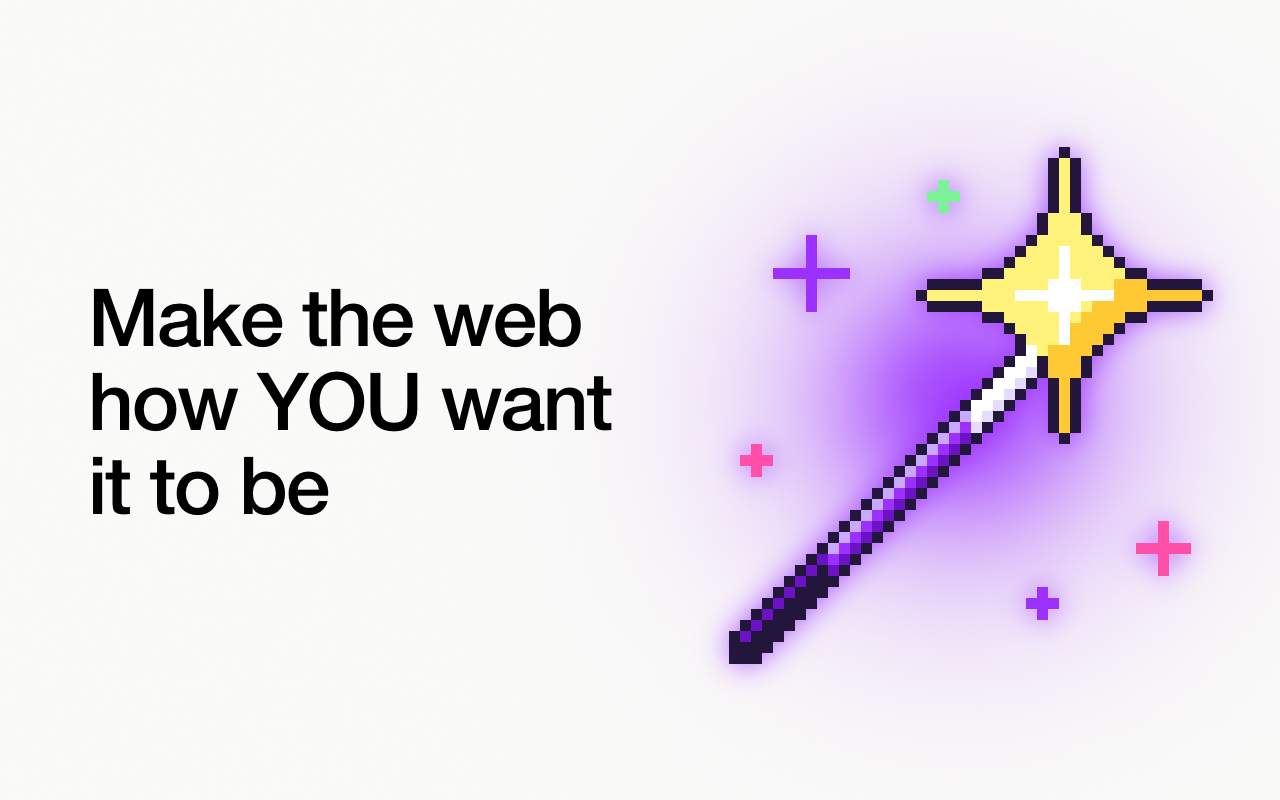
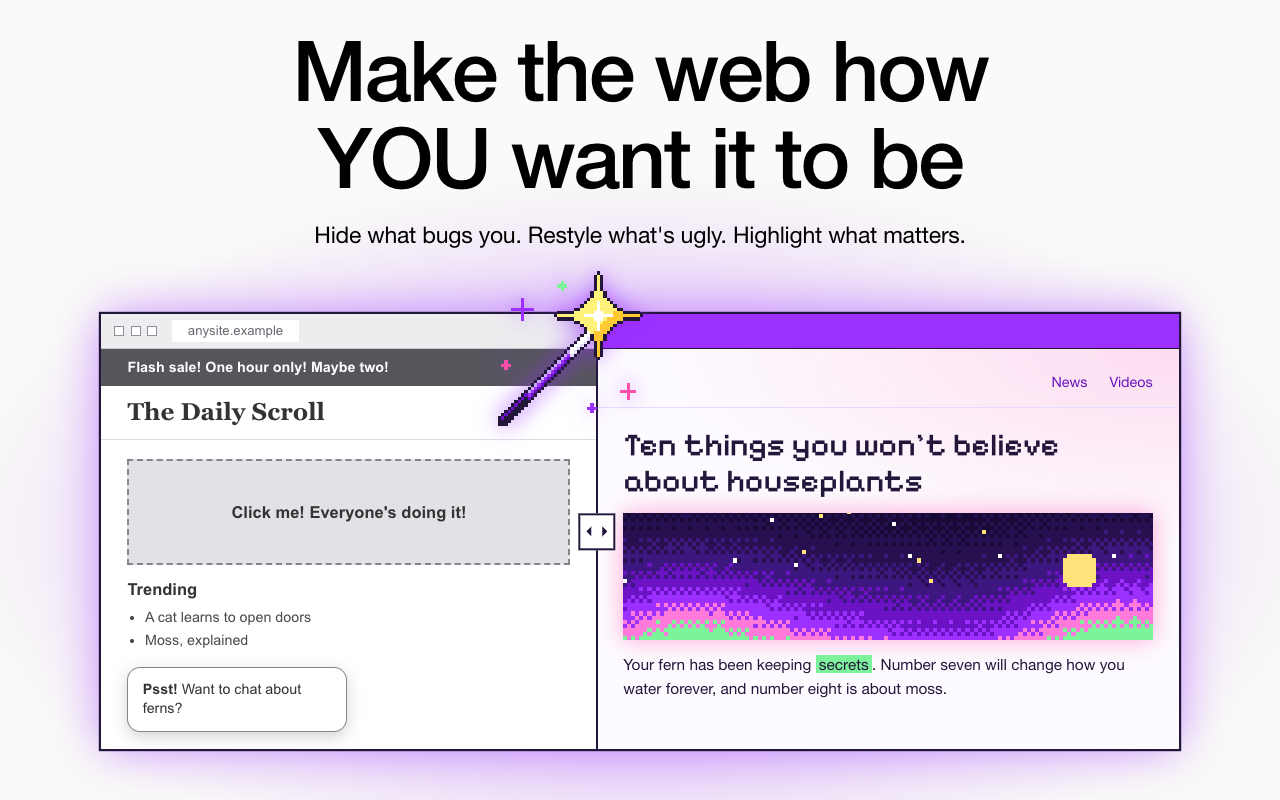
Store submission: new summary, hero promo art, short reviewer notes
The first screenshot and both promo tiles now render from the real welcome
page. The listing moves to listing.txt, with the summary as submitted and
reviewer notes cut to the store's 500 character limit.

diff --git a/store/art.html b/store/art.html
@@ -97,6 +97,27 @@
         return el;
       }
 
+      // The welcome page's own hero, so these pictures can't drift from it. Moving the slider
+      // the way a person would stops its opening sweep and clears the "Drag me" tag.
+      const HERO_ONLY = 'html { overflow: hidden; } main, footer, .scroll-cue, .tag { display: none; } .wand { animation: none; }';
+      function welcome(width, height, css, zoom = 1) {
+        const el = document.createElement('div');
+        el.className = 'art';
+        el.style.inset = '0';
+        const iframe = document.createElement('iframe');
+        Object.assign(iframe, { src: '/extension/welcome/welcome.html', width: width / zoom, height: height / zoom });
+        iframe.style.transform = `scale(${zoom})`;
+        iframe.addEventListener('load', () => {
+          const page = iframe.contentDocument;
+          page.head.append(Object.assign(page.createElement('style'), { textContent: HERO_ONLY + css }));
+          const slider = page.getElementById('slider');
+          slider.value = 46;
+          slider.dispatchEvent(new Event('input'));
+        });
+        el.append(iframe);
+        return el;
+      }
+
       function shelf() {
         const at = Date.now();
         const mk = (name, sites, i, enabled = true) => ({ id: `pdev${String(i).padStart(8, '0')}`, name, sites, enabled, ingredients: [], css: '', js: '', repeat: 0, delay: 0, world: 'USER_SCRIPT', createdAt: at - i * 60000, updatedAt: at - i * 60000 });
@@ -115,9 +136,8 @@
       const SHOTS = {
         '1-tagline': {
           hue: 'purple',
-          title: 'Make the web<br>how YOU want<br>it to be',
-          glow: halo(960, 400, 215),
-          art: (hue) => sprite('bigWand', 11, hue, 960, 400),
+          glow: [],
+          art: () => welcome(1280, 800, '.hero { padding: 26px 0 0; } .compare { zoom: 1.1; --stage: 396px; margin-top: 58px; } .side li:nth-child(3) { display: none; }'),
         },
         '2-hide': {
           hue: 'rose',
@@ -153,16 +173,31 @@
         'tile-small': {
           width: 440,
           height: 280,
-          hue: 'green',
-          glow: halo(220, 140, 130, 1.25),
-          art: (hue) => sprite('potion', 12, hue, 220, 140),
+          hue: 'purple',
+          glow: [],
+          // Too small to read a fake page, so only the clutter and the magic sky stay.
+          art: () => welcome(440, 280, `
+            .pitch, .story h3, .story p, .side h4, .side ul, .masthead span { display: none; }
+            .hero { padding: 76px 0 0; }
+            .compare { width: 540px; --stage: 280px; margin: 0 auto; }
+            .wand { transform: scale(1.2); }
+            .promo { font-size: 0; }
+            .promo::before { content: 'Flash sale!'; font-size: 15px; }
+            .before .masthead b { font-size: 16px; }
+            .columns { grid-template-columns: 46% 54%; padding-top: 14px; }
+            .side { display: block; }
+            .pic { height: 150px; margin: 0; }
+            .pic canvas { object-position: 100% 100%; }
+            .ad-box { height: 78px; }
+            .chat { width: 172px; bottom: 12px; }
+          `, 0.72),
         },
         'tile-marquee': {
           width: 1400,
           height: 560,
           hue: 'purple',
-          glow: halo(700, 280, 300, 1.2),
-          art: (hue) => sprite('bigWand', 9, hue, 700, 280),
+          glow: [],
+          art: () => welcome(1400, 560, '.pitch { display: none; } .hero { padding: 72px 0 0; } .compare { zoom: 1.12; --stage: 385px; margin: 0 auto; }'),
         },
       };
 
